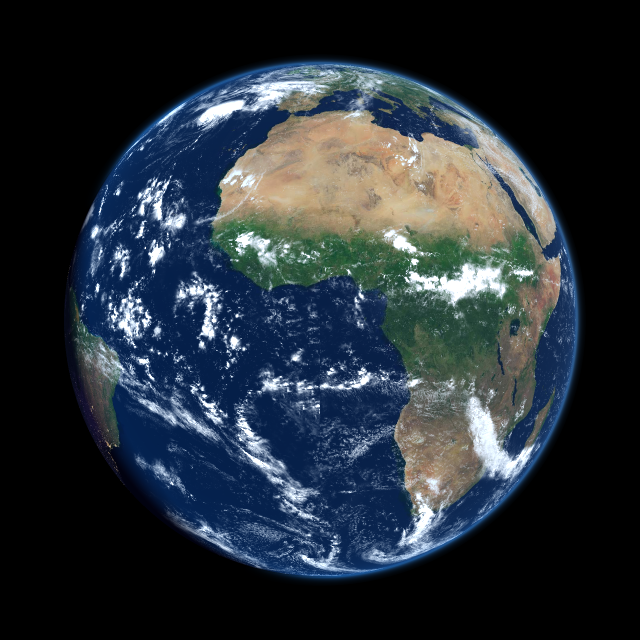
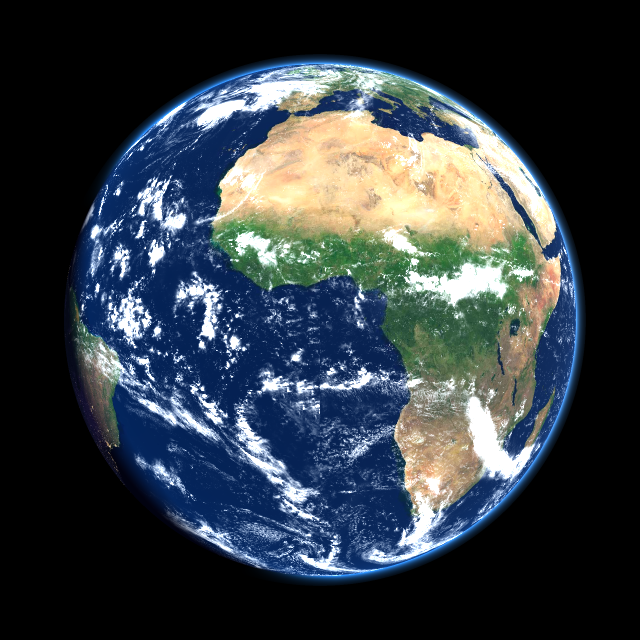
x

Changed region(s): [[0.125, 0.0625, 0.9375, 0.9375], [0.5625, 0.5, 0.5938, 0.5312]]

diff --git a/colors/color.go b/colors/color.go
@@ -121,6 +121,15 @@ func (c Color4) MulAlpha(a float64) Color4 {
 	}
 }
 
+func (c Color4) WithAlpha(a float64) Color4 {
+	return Color4{
+		R: c.R,
+		G: c.G,
+		B: c.B,
+		A: a,
+	}
+}
+
 func (c Color4) Pow(gamma float64) Color4 {
 	return Color4{
 		R: math.Pow(c.R, gamma),
@@ -145,6 +154,20 @@ func (c Color4) Mix(o Color4, t float64) Color4 {
 	}
 }
 
+// MixAlpha returns the mix of c and o with weight t,
+// taking o.A (alpha) into account. If o is fully transparent,
+// the result is just c. If o is fully opaque, it's a normal
+// linear interpolation between c and o.
+func (c Color4) MixAlpha(o Color4, t float64) Color4 {
+	w := t * o.A // effective weight of o
+	return Color4{
+		R: c.R*(1-w) + o.R*w,
+		G: c.G*(1-w) + o.G*w,
+		B: c.B*(1-w) + o.B*w,
+		A: c.A*(1-w) + o.A*w,
+	}
+}
+
 // Clamp01 clamps each component into [0,1].
 func (c Color4) Clamp01() Color4 {
 	return Color4{
@@ -162,6 +185,61 @@ func (c Color4) ToNRGBA() color.NRGBA {
 		to8bit(c.G),
 		to8bit(c.B),
 		to8bit(c.A),
+	}
+}
+
+// FilterPreserveBrightness applies a colored filter f with strength t, modulated by f.A,
+// while preserving the original perceived brightness (Rec.709 luminance).
+// Steps:
+//  1. convert to linear light
+//  2. multiply by filter transmission (1 → no filter, f → full filter) with weight w = t*f.A
+//  3. rescale so output luminance matches the original
+//  4. convert back to sRGB
+func (c Color4) FilterPreserveBrightness(f Color4, t float64) Color4 {
+	w := clamp01(t * clamp01(f.A))
+	if w == 0 {
+		return c
+	}
+
+	// linearize
+	cr, cg, cb := srgbToLinear(c.R), srgbToLinear(c.G), srgbToLinear(c.B)
+	fr, fg, fb := srgbToLinear(f.R), srgbToLinear(f.G), srgbToLinear(f.B)
+
+	// transmission (interpolate between 1 and filter color in linear light)
+	tr := 1 + w*(fr-1)
+	tg := 1 + w*(fg-1)
+	tb := 1 + w*(fb-1)
+
+	// apply multiplicative filter
+	or := cr * tr
+	og := cg * tg
+	ob := cb * tb
+
+	// preserve luminance (Rec.709 / sRGB primaries, in linear light)
+	const rY, gY, bY = 0.2126, 0.7152, 0.0722
+	Yin := rY*cr + gY*cg + bY*cb
+	Yout := rY*or + gY*og + bY*ob
+
+	// rescale to match original luminance
+	scale := 1.0
+	if Yout > 1e-12 {
+		scale = Yin / Yout
+	}
+	or *= scale
+	og *= scale
+	ob *= scale
+
+	// clamp to [0,1] after rescale (optional but practical)
+	or = clamp01(or)
+	og = clamp01(og)
+	ob = clamp01(ob)
+
+	// back to sRGB
+	return Color4{
+		R: linearToSrgb(or),
+		G: linearToSrgb(og),
+		B: linearToSrgb(ob),
+		A: c.A, // viewing through glass doesn't change subject opacity
 	}
 }
 
@@ -188,4 +266,102 @@ func to8bit(x float64) uint8 {
 		y = 255
 	}
 	return uint8(y)
+}
+
+func lerp(a, b, t float64) float64 { return a*(1-t) + b*t }
+
+// hueLerp interpolates angles (degrees) the short way around the circle.
+func hueLerp(h1, h2, t float64) float64 {
+	// Normalize to [0,360)
+	h1 = math.Mod(h1+360.0, 360.0)
+	h2 = math.Mod(h2+360.0, 360.0)
+	d := h2 - h1
+	// Wrap to [-180,180]
+	if d > 180 {
+		d -= 360
+	} else if d < -180 {
+		d += 360
+	}
+	h := h1 + t*d
+	// Normalize result
+	h = math.Mod(h+360.0, 360.0)
+	return h
+}
+
+func rgbToHSV(r, g, b float64) (h, s, v float64) {
+	max := math.Max(r, math.Max(g, b))
+	min := math.Min(r, math.Min(g, b))
+	v = max
+	d := max - min
+
+	if max <= 0 {
+		// black
+		return 0, 0, 0
+	}
+	if d <= 0 {
+		// gray
+		return 0, 0, v
+	}
+
+	s = d / max
+
+	var hh float64
+	switch max {
+	case r:
+		hh = (g - b) / d
+		if g < b {
+			hh += 6
+		}
+	case g:
+		hh = (b-r)/d + 2
+	case b:
+		hh = (r-g)/d + 4
+	}
+	h = (hh / 6.0) * 360.0
+	return
+}
+
+func hsvToRGB(h, s, v float64) (r, g, b float64) {
+	if s <= 0 {
+		return v, v, v
+	}
+	h = math.Mod(h, 360.0)
+	if h < 0 {
+		h += 360.0
+	}
+	h /= 60.0
+	i := math.Floor(h)
+	f := h - i
+	p := v * (1 - s)
+	q := v * (1 - s*f)
+	t := v * (1 - s*(1-f))
+
+	switch int(i) % 6 {
+	case 0:
+		return v, t, p
+	case 1:
+		return q, v, p
+	case 2:
+		return p, v, t
+	case 3:
+		return p, q, v
+	case 4:
+		return t, p, v
+	default:
+		return v, p, q
+	}
+}
+
+// IEC 61966-2-1 sRGB <-> linear
+func srgbToLinear(c float64) float64 {
+	if c <= 0.04045 {
+		return c / 12.92
+	}
+	return math.Pow((c+0.055)/1.055, 2.4)
+}
+func linearToSrgb(c float64) float64 {
+	if c <= 0.0031308 {
+		return 12.92 * c
+	}
+	return 1.055*math.Pow(c, 1.0/2.4) - 0.055
 }

diff --git a/render/renderer.go b/render/renderer.go
@@ -25,13 +25,11 @@ type pixelResult struct {
 
 var DayRim = colors.New(0.25, 0.60, 1.00, 1.0)
 var NightRim = colors.New(0.05, 0.07, 0.20, 0.5)
-var OuterRim = colors.New(0.6, 0.9, 1.2, 1.0)
 var Warm = colors.New(1.02, 1.0, 0.98, 1.0)
 
 type Theme struct {
-	DayRim   colors.Color4
-	NightRim colors.Color4
-	OuterRim colors.Color4
+	DaySky   colors.Color4
+	NightSky colors.Color4
 	Warm     colors.Color4
 	Day      string
 	Night    string
@@ -268,18 +266,13 @@ func RenderScene(
 // ApplyAtmosphereOverlay simulates atmospheric scattering along the view ray using ray tracing.
 // It accounts for Rayleigh scattering, Earth's shadow, backlighting, and rays passing through thin air.
 func ApplyAtmosphereOverlay(ctx *RayContext, base colors.Color4) colors.Color4 {
-	const H = 55.0
-	const rayleighStrength = 0.2
+	const H = 100.0
+	const rayleighStrength = 0.08
 
 	if !ctx.HitsAtmosphere {
 		return base
 	}
 
-	viewDot := ctx.ViewDotNormal
-	rimAmount := math.Pow(1.0-viewDot, 3.0) * 0.3
-	rimColor := ctx.theme.DayRim.Mix(ctx.theme.OuterRim, rimAmount)
-
-	// Step 3: Shadow intersection
 	hitShadow, tShadowEntry, tShadowExit := intersectHalfCylinderForward(ctx.Origin, ctx.RayDir, ctx.SunDir.Scale(-1), earth.Radius)
 
 	litLen := ctx.AtmosphereExitT - ctx.AtmosphereEntryT
@@ -305,7 +298,7 @@ func ApplyAtmosphereOverlay(ctx *RayContext, base colors.Color4) colors.Color4 {
 	}
 
 	if litLen <= 0 && unlitLen <= 0 {
-		return base.Add(rimColor)
+		return base
 	}
 
 	tMid := (ctx.AtmosphereExitT + ctx.AtmosphereEntryT) * 0.5
@@ -318,27 +311,24 @@ func ApplyAtmosphereOverlay(ctx *RayContext, base colors.Color4) colors.Color4 {
 	litAmount = Clip(litAmount, 0.0, 1.0)
 
 	if !ctx.HitEarth {
-		litAmount = litAmount * 0.5
 		litAmount *= getLightIntensity(midPoint.Normalize(), ctx.SunDir)
 	} else {
 		litAmount *= getLightIntensity(ctx.SurfaceNormal, ctx.SunDir)
-
 	}
 
 	// Hue shift: warm when near sun, cool away
 	viewToSun := ctx.SunDir.Dot(ctx.RayDir) // [-1, 1]
 	sunAngle := (1.0 - viewToSun) * 0.5     // 0 near sun, 1 opposite
 	skyColor := colors.New(
-		Lerp(1.0, ctx.theme.DayRim.R, sunAngle), // R: white → neutral warm
-		Lerp(1.0, ctx.theme.DayRim.G, sunAngle), // G: white → slightly greenish
-		Lerp(1.0, ctx.theme.DayRim.B, sunAngle), // B: white → blueish
-		ctx.theme.DayRim.A,
+		Lerp(1.0, ctx.theme.DaySky.R, sunAngle), // R: white → neutral warm
+		Lerp(1.0, ctx.theme.DaySky.G, sunAngle), // G: white → slightly greenish
+		Lerp(1.0, ctx.theme.DaySky.B, sunAngle), // B: white → blueish
+		ctx.theme.DaySky.A,
 	)
 
 	wNight := unlitLen / (litLen + unlitLen + 1e-5)
-	tint := skyColor.Mix(ctx.theme.NightRim, wNight)
-	out := base.Mix(tint, litAmount)
-
+	tint := skyColor.MixAlpha(ctx.theme.NightSky, wNight)
+	out := base.Add(tint.Scale(litAmount))
 	return out
 
 }

diff --git a/main.go b/main.go
@@ -28,7 +28,7 @@ type config struct {
 func defineFlags() config {
 	return config{
 		lat:  flag.Float64("lat", 0.0, "Camera latitude in degrees"),
-		lon:  flag.Float64("lon", -100.0, "Camera longitude in degrees"),
+		lon:  flag.Float64("lon", 0.0, "Camera longitude in degrees"),
 		alt:  flag.Float64("alt", 8880.0, "Camera altitude in kilometers"),
 		fov:  flag.Float64("fov", 60.0, "Camera field of view in degrees"),
 		yaw:  flag.Float64("yaw", 0.0, "Camera yaw in degrees"),
@@ -88,9 +88,8 @@ func main() {
 	renderTime := parseTimeOrExit(*cfg.timeStr)
 
 	theme := render.Theme{
-		DayRim:   colors.New(0.25, 0.60, 1.00, 1.0),
-		NightRim: colors.New(0.05, 0.07, 0.20, 0.5),
-		OuterRim: colors.New(0.6, 0.9, 1.2, 1.0),
+		DaySky:   colors.New(0.25, 0.60, 1.00, 0.5),
+		NightSky: colors.New(0.15, 0.07, 0.20, 0.5),
 		Warm:     colors.New(1.02, 1.0, 0.98, 1.0),
 		Day:      *cfg.day,
 		Night:    *cfg.night,

diff --git a/renderer_test.go b/renderer_test.go
@@ -16,9 +16,8 @@ import (
 
 func TestViews(t *testing.T) {
 	theme := render.Theme{
-		DayRim:   render.DayRim,
-		NightRim: render.NightRim,
-		OuterRim: render.OuterRim,
+		DaySky:   render.DayRim,
+		NightSky: render.NightRim,
 		Warm:     render.Warm,
 		Day:      "assets/world.200408.jpg",
 		Night:    "assets/night.jpg",
